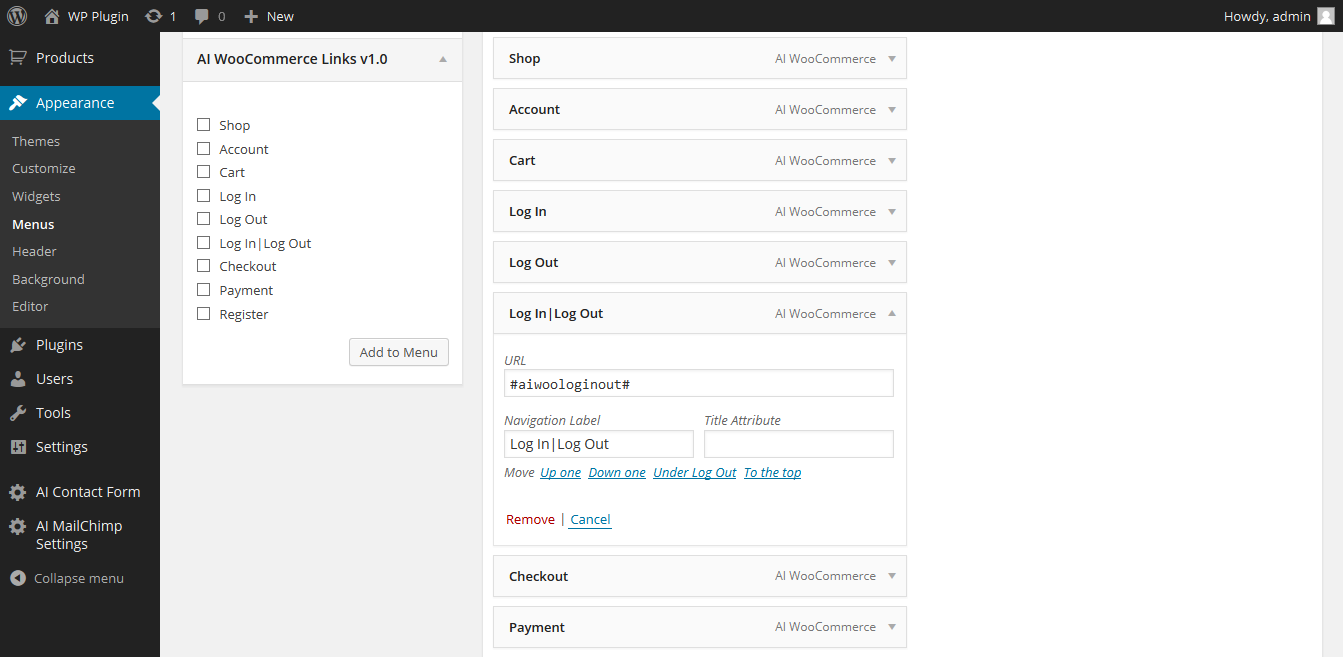
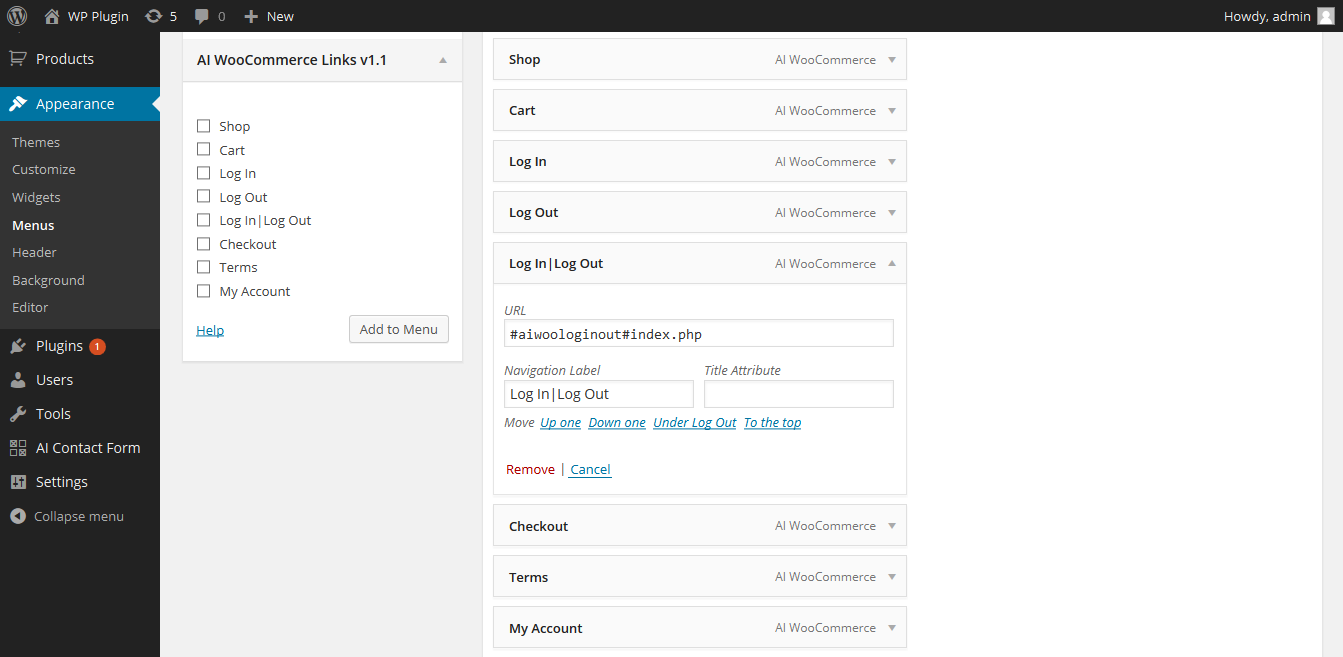
Update Plugin
git-svn-id: https://plugins.svn.wordpress.org/woocommerce-menu-extension/trunk@1049185 b8457f37-d9ea-0310-8a92-e5e31aec5664

diff --git a/include/frontend.inc.php b/include/frontend.inc.php
@@ -17,36 +17,32 @@ add_filter( 'wp_setup_nav_menu_item', 'aiwoo_setup_nav_menu_item' );
 function aiwoo_setup_nav_menu_item( $item )
 {
 	global $pagenow, $woocommerce;
-	if( $pagenow!='nav-menus.php' && !defined('DOING_AJAX') && isset( $item->url ) && strstr( $item->url, '#aiwoo' ) != '' ){
+	if( $pagenow!='nav-menus.php' && !defined('DOING_AJAX') && isset( $item->url ) && strstr( $item->url, '#aiwoo' ) != '' ) {
 		$item_url = substr( $item->url, 0, strpos( $item->url, '#', 1 ) ) . '#';
-		$myaccount_page_id = get_option( 'woocommerce_myaccount_page_id' );
+		$item_redirect = str_replace( $item_url, '', $item->url );
 		
-		if ( get_option( 'woocommerce_enable_myaccount_registration' ) === 'yes' )
-			$aiwooregister = get_permalink( $myaccount_page_id );
+		if(!empty($item_redirect))
+			$item_redirect = $item_redirect;
 		else
-			$aiwooregister = $woocommerce->cart->get_checkout_url();
-			
-		switch( $item_url ) {
-			case '#aiwooshop#'     :	$item->url = get_permalink( woocommerce_get_page_id( 'shop' ) ); break;
+			$item_redirect = get_permalink( woocommerce_get_page_id( 'myaccount' ) );
 		
-			case '#aiwooaccount#'  :	$item->url = get_permalink( $myaccount_page_id ); break;
-	
-			case '#aiwoocart#'	   :	$item->url = $woocommerce->cart->get_cart_url(); break;
+		switch( $item_url ) {
+			case '#aiwooshop#'		 :	$item->url = get_permalink( woocommerce_get_page_id( 'shop' ) ); break;
 			
-			case '#aiwoologinout#' :	$item->url = is_user_logged_in() ? wp_logout_url( get_permalink( $myaccount_page_id ) ) : get_permalink( $myaccount_page_id );
+			case '#aiwoocart#'		 :	$item->url = get_permalink( woocommerce_get_page_id( 'cart' ) ); break;
+			
+			case '#aiwoologin#'		 : 	$item->url = get_permalink( woocommerce_get_page_id( 'myaccount' ) ); break;
+			
+			case '#aiwoologout#'	 : 	$item->url = wp_logout_url( $item_redirect ); break;
+			
+			case '#aiwoologinout#'	 :	$item->url = is_user_logged_in() ? wp_logout_url( $item_redirect ) : get_permalink( woocommerce_get_page_id( 'myaccount' ) );
 										$item->title = aiwoo_loginout_title( $item->title ) ; break;
-									
-			case '#aiwoologin#'    : 	$item->url = get_permalink( $myaccount_page_id ); break;
 			
-			case '#aiwoologout#'   : 	$item->url = wp_logout_url( get_permalink( $myaccount_page_id ) ); break;
+			case '#aiwoocheckout#'	 :	$item->url = get_permalink( woocommerce_get_page_id( 'checkout' ) ); break;	
 			
-			case '#aiwoocheckout#' :	$item->url = $woocommerce->cart->get_checkout_url(); break;
+			case '#aiwooterms#'	 	 :	$item->url = get_permalink( woocommerce_get_page_id( 'terms' ) ); break;
 			
-			case '#aiwoopayment#'  :	$item->url = get_permalink( woocommerce_get_page_id( 'pay' ) ); break;
-			
-			case '#aiwooregister#' : 	if( is_user_logged_in() ) $item->title = '#aiwooregister#'; else $item->url = $aiwooregister; break;
-			
-			
+			case '#aiwoomyaccount#'	 :	$item->url = get_permalink( woocommerce_get_page_id( 'myaccount' ) ); break;			
 		}
 		$item->url = esc_url( $item->url );
 	}
@@ -77,22 +73,6 @@ function aiwoo_shortcode_shop( $atts, $content = null )
 	return '<a href="' . esc_url( $href ) . '"' .$edit_tag . '>' . $content . '</a>';
 }
 
-/* [account] shortcode */
-add_shortcode( 'account', 'aiwoo_shortcode_account' );
-function aiwoo_shortcode_account( $atts, $content = null )
-{
-	global $woocommerce;
-	extract(shortcode_atts(array(
-		"edit_tag" => ""
-	), $atts ) );
-	
-	$edit_tag = esc_html( strip_tags( $edit_tag ) );
-	$myaccount_page_id = get_option( 'woocommerce_myaccount_page_id' );
-	$href = get_permalink( $myaccount_page_id );
-	$content = $content != '' ? $content : __( 'Account' );
-	return '<a href="' . esc_url( $href ) . '"' .$edit_tag . '>' . $content . '</a>';
-}
-
 /* [cart] shortcode */
 add_shortcode( 'cart', 'aiwoo_shortcode_cart' );
 function aiwoo_shortcode_cart( $atts, $content = null )
@@ -103,7 +83,7 @@ function aiwoo_shortcode_cart( $atts, $content = null )
 	), $atts ) );
 	
 	$edit_tag = esc_html( strip_tags( $edit_tag ) );
-	$href = $woocommerce->cart->get_cart_url();
+	$href = get_permalink( woocommerce_get_page_id( 'cart' ) );
 	$content = $content != '' ? $content : __( 'Cart' );
 	return '<a href="' . esc_url( $href ) . '"' .$edit_tag . '>' . $content . '</a>';
 }
@@ -112,32 +92,13 @@ function aiwoo_shortcode_cart( $atts, $content = null )
 add_shortcode( 'login', 'aiwoo_shortcode_login' );
 function aiwoo_shortcode_login( $atts, $content = null )
 {
+	global $woocommerce;
 	extract(shortcode_atts(array(
 		"edit_tag" => ""
 	), $atts ) );
 	$edit_tag = esc_html( strip_tags( $edit_tag ) );
-	$myaccount_page_id = get_option( 'woocommerce_myaccount_page_id' );
-	$href = get_permalink( $myaccount_page_id );
+	$href = get_permalink( woocommerce_get_page_id( 'myaccount' ) );
 	$content = $content != '' ? $content : __( 'Log In' );
-	return '<a href="' . esc_url( $href ) . '"' .$edit_tag . '>' . $content . '</a>';
-}
-
-/* [loginout] shortcode */
-add_shortcode( 'loginout', 'aiwoo_shortcode_loginout' );
-function aiwoo_shortcode_loginout( $atts, $content = null )
-{
-	$myaccount_page_id = get_option( 'woocommerce_myaccount_page_id' );
-	extract(shortcode_atts(array(
-		"edit_tag" => ""
-	), $atts ) );
-	$edit_tag = strip_tags( $edit_tag );
-	$href = is_user_logged_in() ? wp_logout_url( get_permalink( $myaccount_page_id ) ) : get_permalink( $myaccount_page_id );
-	if( $content && strstr( $content, '|' ) != '' ) { // the "|" char is used to split titles
-		$content = explode( '|', $content );
-		$content = is_user_logged_in() ? $content[1] : $content[0];
-	}else{
-		$content = is_user_logged_in() ? __( 'Logout' ) : __( 'Log In' );
-	}
 	return '<a href="' . esc_url( $href ) . '"' .$edit_tag . '>' . $content . '</a>';
 }
 
@@ -145,13 +106,34 @@ function aiwoo_shortcode_loginout( $atts, $content = null )
 add_shortcode( 'logout', 'aiwoo_shortcode_logout' );
 function aiwoo_shortcode_logout( $atts, $content = null )
 {
-	$myaccount_page_id = get_option( 'woocommerce_myaccount_page_id' );
+	global $woocommerce;
 	extract(shortcode_atts(array(
-		"edit_tag" => ""
+		"edit_tag" => "",
+		"redirect" => get_permalink( woocommerce_get_page_id( 'myaccount' ) )
 	), $atts ) );
-	$href = wp_logout_url( get_permalink( $myaccount_page_id ) );
+	$href = wp_logout_url( $redirect );
 	$edit_tag = esc_html( strip_tags( $edit_tag ) );
 	$content = $content != '' ? $content : __( 'Logout' );
+	return '<a href="' . esc_url( $href ) . '"' .$edit_tag . '>' . $content . '</a>';
+}
+
+/* [loginout] shortcode */
+add_shortcode( 'loginout', 'aiwoo_shortcode_loginout' );
+function aiwoo_shortcode_loginout( $atts, $content = null )
+{
+	global $woocommerce;
+	extract(shortcode_atts(array(
+		"edit_tag" => "",
+		"redirect" => get_permalink( woocommerce_get_page_id( 'myaccount' ) )
+	), $atts ) );
+	$edit_tag = strip_tags( $edit_tag );
+	$href = is_user_logged_in() ? wp_logout_url( $redirect ) : get_permalink( woocommerce_get_page_id( 'myaccount' ) );
+	if( $content && strstr( $content, '|' ) != '' ) { // the "|" char is used to split titles
+		$content = explode( '|', $content );
+		$content = is_user_logged_in() ? $content[1] : $content[0];
+	}else{
+		$content = is_user_logged_in() ? __( 'Logout' ) : __( 'Log In' );
+	}
 	return '<a href="' . esc_url( $href ) . '"' .$edit_tag . '>' . $content . '</a>';
 }
 
@@ -165,14 +147,14 @@ function aiwoo_shortcode_checkout( $atts, $content = null )
 	), $atts ) );
 	
 	$edit_tag = esc_html( strip_tags( $edit_tag ) );
-	$href = $item->url = $woocommerce->cart->get_checkout_url();
+	$href = get_permalink( woocommerce_get_page_id( 'checkout' ) );
 	$content = $content != '' ? $content : __( 'Checkout' );
 	return '<a href="' . esc_url( $href ) . '"' .$edit_tag . '>' . $content . '</a>';
 }
 
-/* [payment] shortcode */
-add_shortcode( 'payment', 'aiwoo_shortcode_payment' );
-function aiwoo_shortcode_payment( $atts, $content = null )
+/* [terms] shortcode */
+add_shortcode( 'terms', 'aiwoo_shortcode_terms' );
+function aiwoo_shortcode_terms( $atts, $content = null )
 {
 	global $woocommerce;
 	extract(shortcode_atts(array(
@@ -180,26 +162,22 @@ function aiwoo_shortcode_payment( $atts, $content = null )
 	), $atts ) );
 	
 	$edit_tag = esc_html( strip_tags( $edit_tag ) );
-	$href = $item->url = get_permalink( woocommerce_get_page_id( 'pay' ) );
-	$content = $content != '' ? $content : __( 'Payment' );
+	$href = get_permalink( woocommerce_get_page_id( 'terms' ) );
+	$content = $content != '' ? $content : __( 'Terms' );
 	return '<a href="' . esc_url( $href ) . '"' .$edit_tag . '>' . $content . '</a>';
 }
 
-/* [register] shortcode */
-add_shortcode( 'register', 'aiwoo_shortcode_register' );
-function aiwoo_shortcode_register( $atts, $content = null )
+/* [myaccount] shortcode */
+add_shortcode( 'myaccount', 'aiwoo_shortcode_myaccount' );
+function aiwoo_shortcode_myaccount( $atts, $content = null )
 {
-	$myaccount_page_id = get_option( 'woocommerce_myaccount_page_id' );
-	if ( get_option( 'woocommerce_enable_myaccount_registration' ) === 'yes' )
-		$aiwooregister = get_permalink( $myaccount_page_id );
-	else
-		$aiwooregister = $woocommerce->cart->get_checkout_url();
-		
-	if( is_user_logged_in() )
-		return '';
-		
-	$href = $aiwooregister;
-	$content = $content != '' ? $content : __( 'Register' );
-	$link = '<a href="' . $href. '">' . $content . '</a>';
-	return $link;
+	global $woocommerce;
+	extract(shortcode_atts(array(
+		"edit_tag" => ""
+	), $atts ) );
+	
+	$edit_tag = esc_html( strip_tags( $edit_tag ) );
+	$href = get_permalink( woocommerce_get_page_id( 'myaccount' ) );
+	$content = $content != '' ? $content : __( 'Myaccount' );
+	return '<a href="' . esc_url( $href ) . '"' .$edit_tag . '>' . $content . '</a>';
 }

diff --git a/include/backend.inc.php b/include/backend.inc.php
@@ -13,7 +13,7 @@ function aiwoo_nav_menu_metabox( $object )
 {
 	global $nav_menu_selected_id;
 
-	$elems = array( '#aiwooshop#' => __( 'Shop' ), '#aiwooaccount#' => __( 'Account' ), '#aiwoocart#' => __( 'Cart' ), '#aiwoologin#' => __( 'Log In' ), '#aiwoologout#' => __( 'Log Out' ), '#aiwoologinout#' => __( 'Log In' ).'|'.__( 'Log Out' ), '#aiwoocheckout#' => __( 'Checkout' ), '#aiwoopayment#' => __( 'Payment' ), '#aiwooregister#' => __( 'Register' )  );
+	$elems = array( '#aiwooshop#' => __( 'Shop' ), '#aiwoocart#' => __( 'Cart' ), '#aiwoologin#' => __( 'Log In' ), '#aiwoologout#' => __( 'Log Out' ), '#aiwoologinout#' => __( 'Log In' ).'|'.__( 'Log Out' ), '#aiwoocheckout#' => __( 'Checkout' ), '#aiwooterms#' => __( 'Terms' ), '#aiwoomyaccount#' => __( 'My Account' )  );
 	class aiwoologItems {
 		public $db_id = 0;
 		public $object = 'aiwoolog';
@@ -47,6 +47,14 @@ function aiwoo_nav_menu_metabox( $object )
 		</div>
 
 		<p class="button-controls">
+			<span class="list-controls hide-if-no-js">
+				<a href="javascript:void(0);" class="help" onclick="jQuery( '#help-login-links' ).toggle();"><?php _e( 'Help' ); ?></a>
+				<span class="hide-if-js" id="help-login-links"><br /><a name="help-login-links"></a>
+					<?php
+						echo 'You can add a redirection page after the user\'s logout simply adding a relative link after the link\'s keyword, example <code>#aiwoologinout#index.php</code> or <code>#aiwoologout#index.php</code>.';	
+					?>
+				</span>
+			</span>
 			<span class="add-to-menu">
 				<input type="submit"<?php disabled( $nav_menu_selected_id, 0 ); ?> class="button-secondary submit-add-to-menu right" value="<?php esc_attr_e('Add to Menu'); ?>" name="add-login-links-menu-item" id="submit-login-links" />
 				<span class="spinner"></span>
@@ -61,8 +69,12 @@ function aiwoo_nav_menu_metabox( $object )
 add_filter( 'wp_setup_nav_menu_item', 'aiwoo_nav_menu_type_label' );
 function aiwoo_nav_menu_type_label( $menu_item )
 {
-	$elems = array( '#aiwooaccount#', '#aiwooshop#', '#aiwoocart#', '#aiwoologin#', '#aiwoologout#', '#aiwoologinout#', '#aiwoocheckout#',  '#aiwoopayment#', '#aiwooregister#' );
-	if ( isset($menu_item->object, $menu_item->url) && $menu_item->object == 'custom' && in_array($menu_item->url, $elems) )
+	$elems = array( '#aiwooshop#', '#aiwoocart#', '#aiwoologin#', '#aiwoologout#', '#aiwoologinout#', '#aiwoocheckout#', '#aiwooterms#', '#aiwoomyaccount#' );
+	
+	$menu_item_array = explode('#', $menu_item->url);
+	$menu_item_url = '#'.$menu_item_array[1].'#';
+	
+	if ( isset($menu_item->object, $menu_item->url) && $menu_item->object == 'custom' && in_array($menu_item_url, $elems) )
 		$menu_item->type_label = ( 'AI WooCommerce' );
 
 	return $menu_item;

diff --git a/woocommerce-menu-extension.php b/woocommerce-menu-extension.php
@@ -3,13 +3,13 @@
 Plugin Name: WooCommerce Menu Extension
 Plugin URI: http://www.augustinfotech.com
 Description: You can now add woocommerce links in your WP menus.
-Version: 1.0
+Version: 1.1
 Text Domain: woocommerce-menu-extension
 Author: August Infotech
 Author URI: http://www.augustinfotech.com
 */
 
-define( 'AIWOO_VERSION', '1.0' );
+define( 'AIWOO_VERSION', '1.1' );
 
 include_once( ABSPATH . 'wp-admin/includes/plugin.php' );
 
